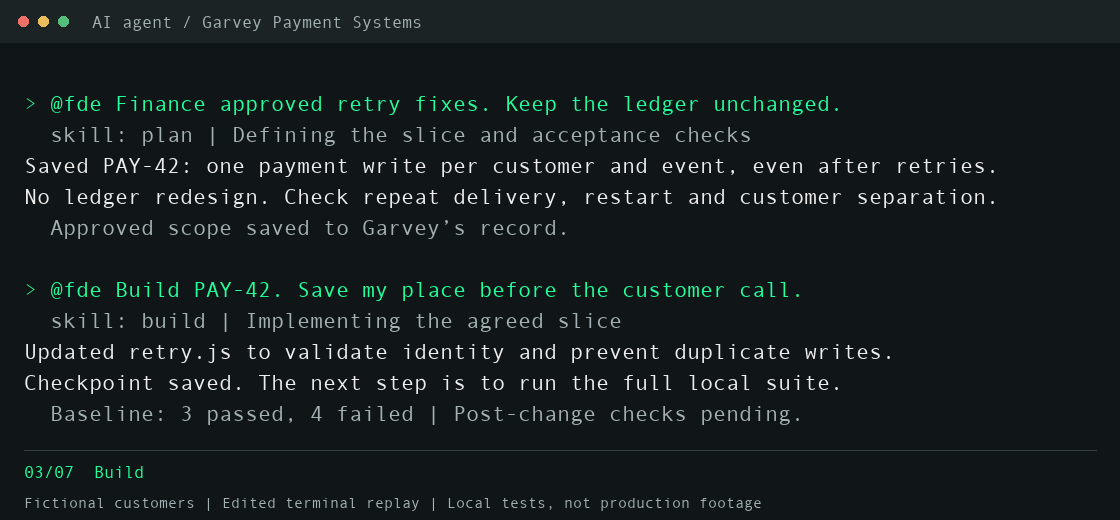
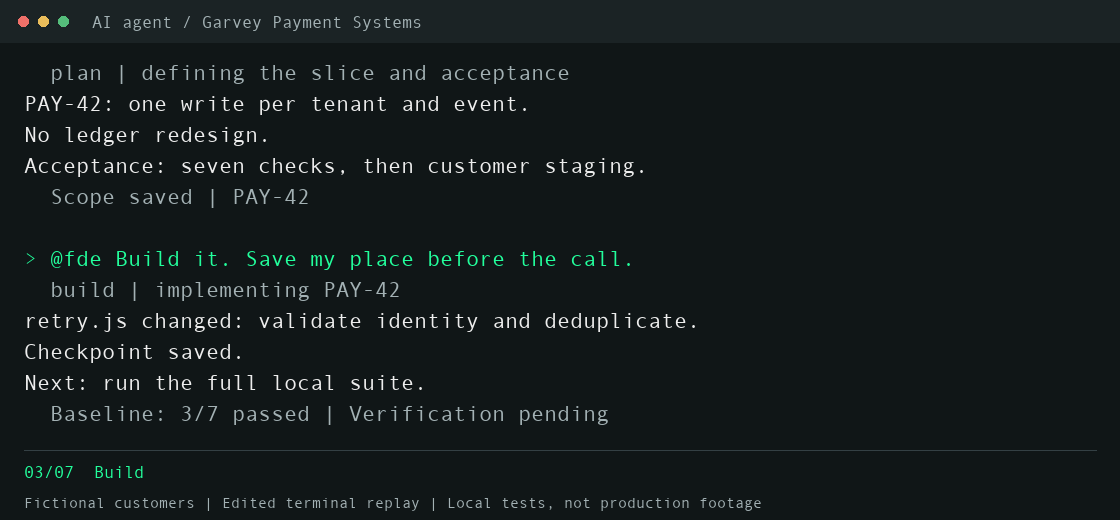
Tighten the FDE terminal walkthrough
Replace separate demo cards with a continuous scrolling terminal conversation. Keep the requested order: discovery, scope, build, switch customer, resume/test, rollout decision and handover preparation. Natural prompts type in, concise replies appear below, and small method labels explain the agent’s work. Reading pauses are 11 seconds; the complete replay runs about 102 seconds.

The replay combines two scripted runs with real local implementation/test/record evidence. Add the generated handover draft, reconciled with the existing customer acceptance record. Fictional customers, editorial ordering, explanatory method labels and lack of production deployment are explicit. Text and still-image alternatives remain available.

Validation: independent evidence/layout review, existing seven-test example, all animation frames decoded and inspected, Chromium playback, repository checks. No runtime or npm version change.

diff --git a/media/chat-demo.md b/media/chat-demo.md
@@ -1,105 +1,59 @@
-# From workshop to handover preparation
+# FDEOps in one workday
 
-One terminal conversation: discovery, scope, build, a second customer's meeting, resumed tests, rollout decision and handover preparation. Users speak naturally; the small activity lines show which FDEOps method applies.
+One continuous terminal replay: discovery, scope, build, a customer switch, testing, rollout judgment and handover preparation.
 
-This is an edited terminal replay combining two scripted agent runs, not an unedited recording of Claude Code or Codex. It uses actual local code changes, test results, approved record saves, customer-context reads and a generated handover draft. Customers are fictional. Wording is condensed and reordered; typing, activity labels and reading pauses are staged. No production system was accessed.
+The user speaks naturally. FDEOps chooses the method and keeps the work moving. The small muted line names the method for the viewer; it is an explanatory label, not a command the user has to remember.
 
-## 01/07  Discovery
+The GIF is a shortened, edited replay of two scripted runs using fictional Garvey Payment Systems and Kesterman Freight Lines records. The local retry fixture, seven tests, checkpoints and handover draft were actually exercised. No production system was accessed or deployed.
 
-> @fde Workshop done. Finance keeps reprocessing payments. Where do we start?
+## The conversation
 
-Trace one failed payment with finance: delivery, acknowledgement, write. Check whether retries cause duplicates. Measure the recovery work first.
+1. **Discover** - “Finance sees duplicate payment retries. What do we know?”
 
-Customer failure pattern and business baseline still need evidence.
+   “A hypothesis, not a measured incident. Trace one failed payment with Finance. Measure the recovery work before designing the fix.”
 
-## 02/07  Scope
+2. **Scope** - “Make the first slice small.”
 
-> @fde Finance approved retry fixes. Keep the ledger unchanged.
+   “PAY-42: one write per tenant and event. No ledger redesign. Acceptance: seven checks, then customer staging.”
 
-Saved PAY-42: one payment write per customer and event, even after retries. No ledger redesign. Check repeat delivery, restart and customer separation.
+3. **Build** - “Build it. Save my place before the call.”
 
-Approved scope saved to Garvey’s record.
+   “`retry.js` changed. Checkpoint saved. Baseline: 3/7 passed. Next: run the full local suite.”
 
-## 03/07  Build
+4. **Switch customer** - “Kesterman meeting in five minutes. Brief me.”
 
-> @fde Build PAY-42. Save my place before the customer call.
+   “Denise must choose: defer Nashville views, or trade scope for the timeline. Garvey’s unfinished work is preserved.”
 
-Updated retry.js to validate identity and prevent duplicate writes. Checkpoint saved. The next step is to run the full local suite.
+5. **Resume and test** - “Back to Garvey. Verify PAY-42.”
 
-Baseline: 3 passed, 4 failed | Post-change checks pending.
+   “Checkpoint recovered. 7/7 local tests pass. The customer receiver still needs staging verification.”
 
-## 04/07  Switch customer
+6. **Rollout decision** - “Seven tests pass. Ship it?”
 
-> @fde Switch to Kesterman. What does Denise need to decide?
+   “Not yet. Replay against the durable receiver on customer staging. Security, CTO approval and Finance acceptance are pending.”
 
-Defer Nashville role views, or trade scope and timeline. Reconfirm the demo. Garvey’s unfinished work is preserved.
+7. **Handover** - “Prepare handover and leave the next step.”
 
-Kesterman context loaded | Temporary selection, read-only.
+   “Runbook draft ready: owner, rollback and staging checks. Saved next action: arrange the authorised replay.”
 
-## 05/07  Resume and test
+## What the evidence means
 
-> @fde Back to Garvey. Continue and test the change.
+The local fixture starts at 3/7 passing tests and reaches 7/7 after the retry change. The receiver is an in-memory mock. That proves the local checks ran; it does not prove durable persistence, customer integration, staging readiness or production value.
 
-Recovered PAY-42 and checked that the code is unchanged. All 7 local tests pass. The real customer receiver still needs verification.
+The handover draft carries Garvey’s existing acceptance criteria: June Porter owns finance acceptance, with a full-week EU replay, zero manual Excel reprocessing in the audit log and written acceptance. Those conditions remain pending in the demo.
 
-Tests: 7 | Passed: 7 | Failed: 0 | Local receiver mock.
+The customer switch is temporary and read-only. Garvey’s work is preserved; Kesterman’s record is not changed. The animation combines two scripted runs and stages typing and pauses for readability.
 
-## 06/07  Rollout decision
-
-> @fde Seven tests pass. Are we ready for production?
-
-Not yet. Replay retries against the durable receiver on customer staging. Security, CTO approval and finance acceptance remain pending.
-
-Local evidence is ready. Nothing has been deployed.
-
-## 07/07  Handover preparation
-
-> @fde Prepare the handover and save tomorrow’s next step.
-
-Handover draft ready: staging checks, operating owner and rollback needs. Saved next action: arrange the authorised staging replay.
-
-handover-draft.md created | Production and handover acceptance pending.
-
-## Full captured answer
-
-Fictional scenario  -  edited terminal replay. Local work actually performed using the FDEOps skill.
-
-1. Saved PAY-42: tenant-scoped `insertOnce`, no ledger redesign. Checks cover duplicates, restart, tenant isolation, concurrency, failure retry, and missing identity. Production requires security, CTO approval, and finance acceptance.
-
-2. Baseline: 3/7 passed. Implemented identity validation and tenant-scoped `insertOnce` in `retry.js`. Saved a recoverable checkpoint before post-change verification; next action recorded: run the full local suite.
-
-3. Read Kesterman through temporary command scope; no customer writes or persistent binding changes. Denise must decide whether to defer Nashville role views or trade scope/timeline, and reconfirm the demo.
-
-4. Recovered Garvey’s checkpoint through CLI; confirmed preserved file hashes. Full `npm test`: 7/7 passed. The in-memory receiver mock does not verify durable persistence or customer integration.
-
-5. No rollout: only local mocked evidence exists; staging and production access are unavailable. Next check: durable-receiver staging replay, followed by security/CTO approvals and finance acceptance. Nothing deployed.
-
-6. Saved and verified Garvey checkpoint `c6c423a`: implementation hash, exact baseline and seven passing checks, pending staging, security/CTO approvals, and finance acceptance. Next: arrange authorized staging replay against the durable receiver.
-
-## Evidence and reproduction
-
-The run used Codex CLI 0.154.0 with FDEOps 5.1.10, the public Garvey and Kesterman example records, and an explicitly approved fictional PAY-42 workshop decision. The exact model identifier was not recorded. Sanitized CLI reads selected each customer; selection was temporary, not a persistent workspace rebind. Only Garvey’s approved records and the local implementation were changed. The initial customer-path lookup was corrected before record access.
-
-The baseline implementation called `store.insert(event)` and passed 3 of 7 tests. The edited [retry handler](workday-fixture/retry.js) uses the receiver’s `insertOnce` API and passes all seven [checks](workday-fixture/retry.test.js). Run them without installing dependencies:
+## Reproduce the local fixture
 
 ```bash
 node --test media/workday-fixture/retry.test.js
 ```
 
-The receiver is an in-memory mock. Atomic durable writes are an assumed receiver contract, not verified infrastructure. This run does not demonstrate real staging integration, production deployment, customer acceptance, cross-session recovery or a reliability rate. The customer interruption happened within one agent session; checkpoints were saved and read back.
-
-## Discovery and handover capture
-
-A second run read the discovery, planning, runbook and handoff methods using the same synthetic scope and local implementation. It recommended tracing a failed payment with finance before treating the supplied duplicate-write hypothesis as a verified customer incident. It reran all seven local tests and created [handover-draft.md](workday-fixture/handover-draft.md).
-
-The generated draft was reconciled with Garvey’s existing record: June Porter owns acceptance, using a full-week EU replay, audit-log evidence and written acceptance. The historical baseline still needs to be validated for this rollout. The draft lists staging replay, security/CTO review, finance acceptance, operating owner and rollback evidence still required. It is a preparation artifact, not an accepted handover or completed production lifecycle. No additional customer record writes were made in this second run. Method labels in the animation are explanatory labels, not a host UI feature or exact tool-event transcript.
-
-## Render the animation
-
-With Python, Pillow and a monospace font:
+To render the GIF, use Python, Pillow and a monospace font:
 
 ```bash
 python3 media/render-chat-demo.py --font /path/to/monospace.ttf
 ```
 
-[Scene text](chat-demo.json) · [Still image](chat-demo.png) · [CLI recording](../docs/USAGE.md)
+[Scene source](chat-demo.json) · [Still image](chat-demo.png) · [Handover draft](workday-fixture/handover-draft.md) · [CLI recording](../docs/USAGE.md)
